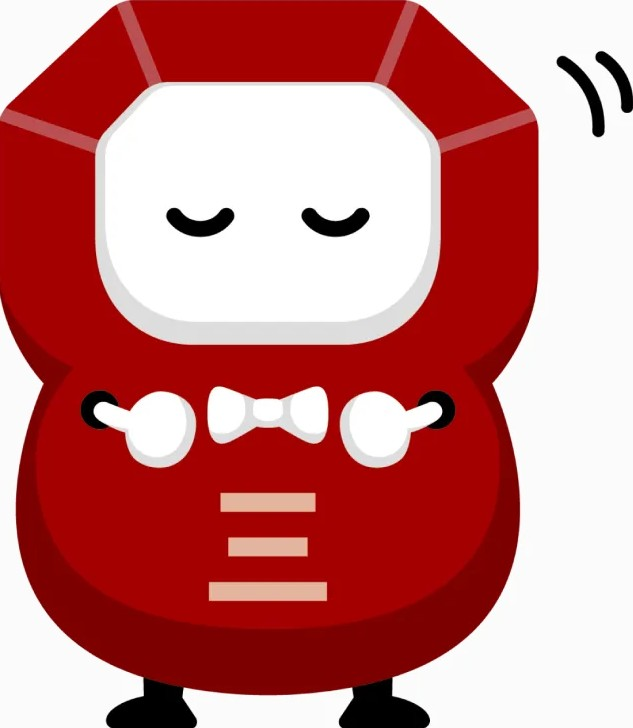
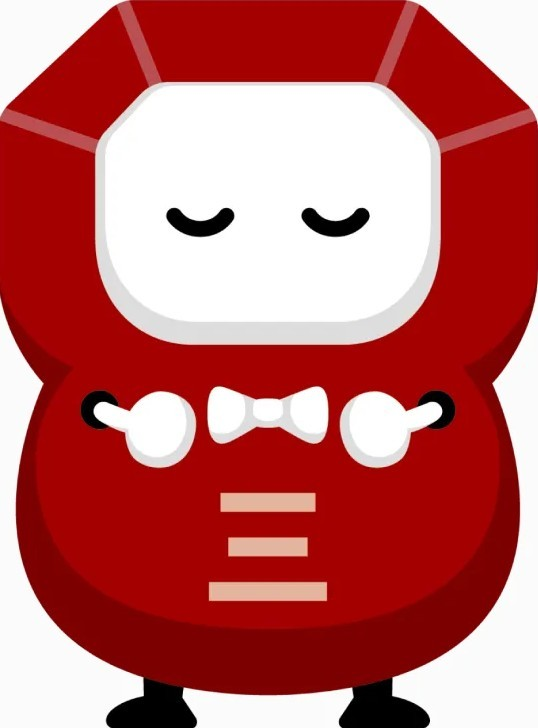
ノロジー画像更新・白背景をmix-blend-multiplyで透過処理

diff --git a/src/components/features/ChatWidget.tsx b/src/components/features/ChatWidget.tsx
@@ -185,7 +185,7 @@ export default function ChatWidget() {
                     alt="ノロジー"
                     width={40}
                     height={40}
-                    className="w-full h-full object-contain drop-shadow"
+                    className="w-full h-full object-contain drop-shadow mix-blend-multiply"
                   />
                 </div>
                 <div>
@@ -215,7 +215,7 @@ export default function ChatWidget() {
                         alt="ノロジー"
                         width={32}
                         height={32}
-                        className="w-full h-full object-contain drop-shadow-sm"
+                        className="w-full h-full object-contain drop-shadow-sm mix-blend-multiply"
                       />
                     </div>
                   )}
@@ -319,7 +319,7 @@ export default function ChatWidget() {
               alt="ノロジー"
               width={64}
               height={64}
-              className="object-contain drop-shadow-lg"
+              className="object-contain drop-shadow-lg mix-blend-multiply"
             />
           </div>
         </button>
